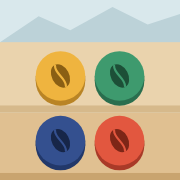
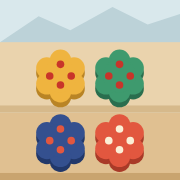
Flat six-lobed coffee shrubs instead of coins

diff --git a/js/art.js b/js/art.js
@@ -1,25 +1,25 @@
 // Flat art: terraced hillside and coin-like plant tokens. No gradients, no blur — solid faces only.
 export const PAL = {
-  Y: { top: '#efb43f', side: '#b98425', mark: '#8a5f14' },
-  G: { top: '#3e9a6e', side: '#2a6e4e', mark: '#1d4f37' },
-  B: { top: '#34508f', side: '#22386a', mark: '#172648' },
-  R: { top: '#e2573f', side: '#a93a28', mark: '#7d2617' },
-  M: { top: '#fbf8f2', side: '#cfc6b6', mark: '#3a3530' },
+  Y: { top: '#efb43f', side: '#b98425', berry: '#c8352a' },
+  G: { top: '#3e9a6e', side: '#2a6e4e', berry: '#c8352a' },
+  B: { top: '#34508f', side: '#22386a', berry: '#e2573f' },
+  R: { top: '#e2573f', side: '#a93a28', berry: '#fbefd6' },
+  M: { top: '#fbf8f2', side: '#cfc6b6', berry: '#3a3530' },
 };
-const R = 30;
-// Coffee bean: an oval with an S-crease.
-const bean = c => `<g transform="rotate(-28)"><ellipse rx="10.5" ry="15" fill="${c}"/>
-  <path d="M0 -14 C-5 -6 5 6 0 14" fill="none" stroke="currentColor" stroke-width="2.6" stroke-linecap="round"/></g>`;
+// Six-lobed shrub silhouette, flat: one solid top face over a solid side face.
+const shrub = (fill, dy = 0) => `<g fill="${fill}" transform="translate(0 ${dy})">${[0, 1, 2, 3, 4, 5].map(k => {
+  const a = (k * 60 - 90) * Math.PI / 180;
+  return `<circle cx="${(Math.cos(a) * 19).toFixed(2)}" cy="${(Math.sin(a) * 19).toFixed(2)}" r="13"/>`;
+}).join('')}<circle r="20"/></g>`;
+const CHERRIES = [[0, -14], [-13, 0], [13, 0], [0, 11]];
 
 export function defs() {
   let s = '';
   for (const [k, p] of Object.entries(PAL)) {
     const mark = k === 'M'
-      ? `<path d="M-14 6 A14 14 0 1 1 10 10" fill="none" stroke="${p.mark}" stroke-width="4" stroke-linecap="round"/><path d="M3 4 L13 14 L17 1 Z" fill="${p.mark}"/>`
-      : `<g color="${p.top}">${bean(p.mark)}</g>`;
-    s += `<symbol id="bush${k}" viewBox="-50 -50 100 100" overflow="visible">
-      <circle cy="6" r="${R}" fill="${p.side}"/><rect x="-${R}" y="0" width="${R * 2}" height="6" fill="${p.side}"/>
-      <circle r="${R}" fill="${p.top}"${k === 'M' ? ` stroke="${p.side}" stroke-width="1.5"` : ''}/>${mark}</symbol>`;
+      ? `<path d="M-12 5 A12 12 0 1 1 9 9" fill="none" stroke="${p.berry}" stroke-width="3.6" stroke-linecap="round"/><path d="M3 3 L12 12 L15 0 Z" fill="${p.berry}"/>`
+      : CHERRIES.map(([x, y]) => `<circle cx="${x}" cy="${y}" r="4.6" fill="${p.berry}"/>`).join('');
+    s += `<symbol id="bush${k}" viewBox="-50 -50 100 100" overflow="visible">${shrub(p.side, 6)}${shrub(p.top)}${mark}</symbol>`;
   }
   return s;
 }
@@ -44,4 +44,4 @@ export function hillside() {
   return s;
 }
 // Empty plot: a flat planting hole.
-export const hole = () => `<circle r="${R}" cy="3" fill="rgba(110,70,30,.16)"/>`;
+export const hole = () => `<g opacity=".16">${shrub('#6e461e', 3)}</g>`;

diff --git a/js/app.js b/js/app.js
@@ -98,7 +98,7 @@ function render() {
   if (S.phase === 'over') { m1 = S.winner == null ? 'The mountain is stuck — a draw.' : `${S.names[S.winner]} ${S.winner === 0 && S.setup.mode === 'cpu' ? 'win' : 'wins'}!`; m2 = S.winner == null ? '' : `The ultimate hybrid — a full ${S.winLine.kind} of all four.`; }
   else if (S.phase === 'draw') { m1 = isCpu() ? 'Computer is drawing…' : `${who}: draw a piece`; m2 = isCpu() ? '' : 'Tap the bag.'; }
   else if (S.phase === 'resolving' || S.phase === 'stuck') { m1 = S.phase === 'stuck' ? 'Back in the bag' : 'Planting…'; m2 = ''; }
-  else if (S.drawn === M.MOVE) { m1 = isCpu() ? 'Computer transplants…' : 'Transplant!'; m2 = S.phase === 'move-drop' ? 'Tap a glowing plot next to it.' : 'Pick a plant to move one step.'; }
+  else if (S.drawn === M.MOVE) { m1 = isCpu() ? 'Computer transplants…' : 'Transplant!'; m2 = S.phase === 'move-drop' ? 'Tap a dashed plot next to it.' : 'Pick a plant to move one step.'; }
   else { const sp = M.SPECIES[S.drawn]; m1 = isCpu() ? `Computer drew ${sp.name}` : `${sp.name}`; m2 = isCpu() ? '' : `${sp.latin} · ${ROWS_TXT[S.drawn]}`; }
   $('.m1').textContent = m1; $('.m2').textContent = m2;
   $('.tally').innerHTML = [...M.PLANTS, M.MOVE].map(k => `<span class="t">${svgPiece(k)}<b>${counts[k] - (S.drawn === k ? 1 : 0)}</b></span>`).join('') + '<span class="tlbl">in the bag</span>';

diff --git a/sw.js b/sw.js
@@ -1,5 +1,5 @@
 // Network-first so updates show up right away; cache is the offline fallback.
-const CACHE = 'coffea-v2';
+const CACHE = 'coffea-v3';
 self.addEventListener('install', () => self.skipWaiting());
 self.addEventListener('activate', e => e.waitUntil(
   caches.keys().then(ks => Promise.all(ks.filter(k => k !== CACHE).map(k => caches.delete(k)))).then(() => self.clients.claim())

diff --git a/CLAUDE.md b/CLAUDE.md
@@ -1,6 +1,6 @@
 # Coffea Arabica — notes for Claude
 
-- Owner: Noah. His board game (first draft "Arabica Rulebook v1.0", ~/Downloads/ArabicaRules_v100.pages) as a phone PWA. Look: flat and modern (Monument Valley / NYT Games), no gradients, blur or glossy shading. Paper background, ink UI, DM Serif Display headings. Board = flat clay terraces with risers under a pale sky and flat mountains, rows numbered 1 (bottom) to 4 (top). Pieces = flat coin tokens (solid side face) with a coffee-bean mark. Noah's 3D board render (bubbly bushes, Lobster script) was only a starting idea and was rejected as too bubbly.
+- Owner: Noah. His board game (first draft "Arabica Rulebook v1.0", ~/Downloads/ArabicaRules_v100.pages) as a phone PWA. Look: flat and modern (Monument Valley / NYT Games), no gradients, blur or glossy shading. Paper background, ink UI, DM Serif Display headings. Board = flat clay terraces with risers under a pale sky and flat mountains, rows numbered 1 (bottom) to 4 (top). Pieces = Noah's six-lobed coffee shrubs with 4 cherries, drawn flat (solid top + solid side face, no shading); he asked to keep that shape. Noah's 3D board render (bubbly bushes, Lobster script) was only a starting idea and was rejected as too bubbly.
 - No build step, no frameworks, no npm deps. ES modules served statically, same setup as ~/Claude/EveryDay and ~/Claude/FretFlow.
 - All rules live in `js/model.js` (row 0 in code = top = "row 4" on screen). Run `node --test tests/model.test.mjs` after changing them. Computer opponent in `js/ai.js` (easy random / normal = don't hand over a win / hard = one full turn of expectimax).
 - Rulings the rulebook left open (shown in the app's rules sheet): disease is orthogonal and checked before the win; transplants obey altitude; a piece with no legal spot goes back and the turn ends; 8 straight passes = draw.
